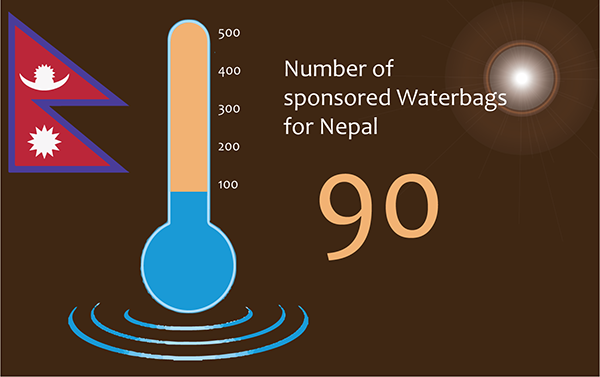
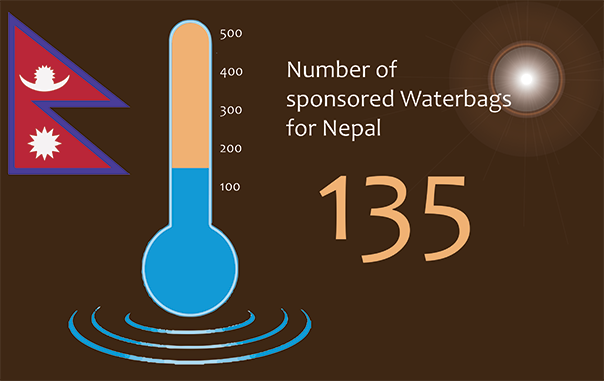
updated nepal image and text

diff --git a/nepal.html b/nepal.html
@@ -63,7 +63,10 @@
 				<div class="row">
 					<div class="col-md-12">
 						<h2 class="center">NEPAL RELIEF</h2>
-						<p class="center">We currently have a shipment of DayOne Purification Waterbags on its way to the World Health Organization Nepal Country Office and are working in collaboration with UNICEF and the Nepal Department of Water Supply and Sewerage agency to deploy Waterbags to vulnerable populations. This shipment will provide clean water to 2,000 individuals. Together we would like to support an additional 2,000 individuals with 500 DayOne Purification Waterbags.</p>
+						<p class="center">We currently have multiple shipments of DayOne Purification Waterbags on their way to Nepal. Enough to supply a total of 10,000 people with clean water. We are working in collaboration with mulitple agencies such as the World Health Organization Nepal Country Office, UNICEF, and the Nepal Department of Water Supply and Sewerage agency to deploy Waterbags to vulnerable populations. Our team is currently in Kathmandu, Nepal providing water, sanitation, and hygiene technical support to our implementing partners.</p>
+
+						<p class="center">Together we would like to support an additional 2,000 individuals with 500 DayOne Purification Waterbags. For every sponsored Waterbag DayOne Response donates an additional 600 liters of clean drinking water for disaster relief.</p>
+
 						<a href="http://dayoneresponse-com.3dcartstores.com/Sponsor-a-DayOne-Waterbag-for-Nepal-Relief-Efforts-Product-will-ship-to-Nepal-in-next-relief-shipment_p_14.html">
 							<div class="nepalpage--button">
 								<button type="button" class="btn btn-lg button-sponsorHome button-HomeSponsorNepal">Sponsor a Waterbag for Nepal
